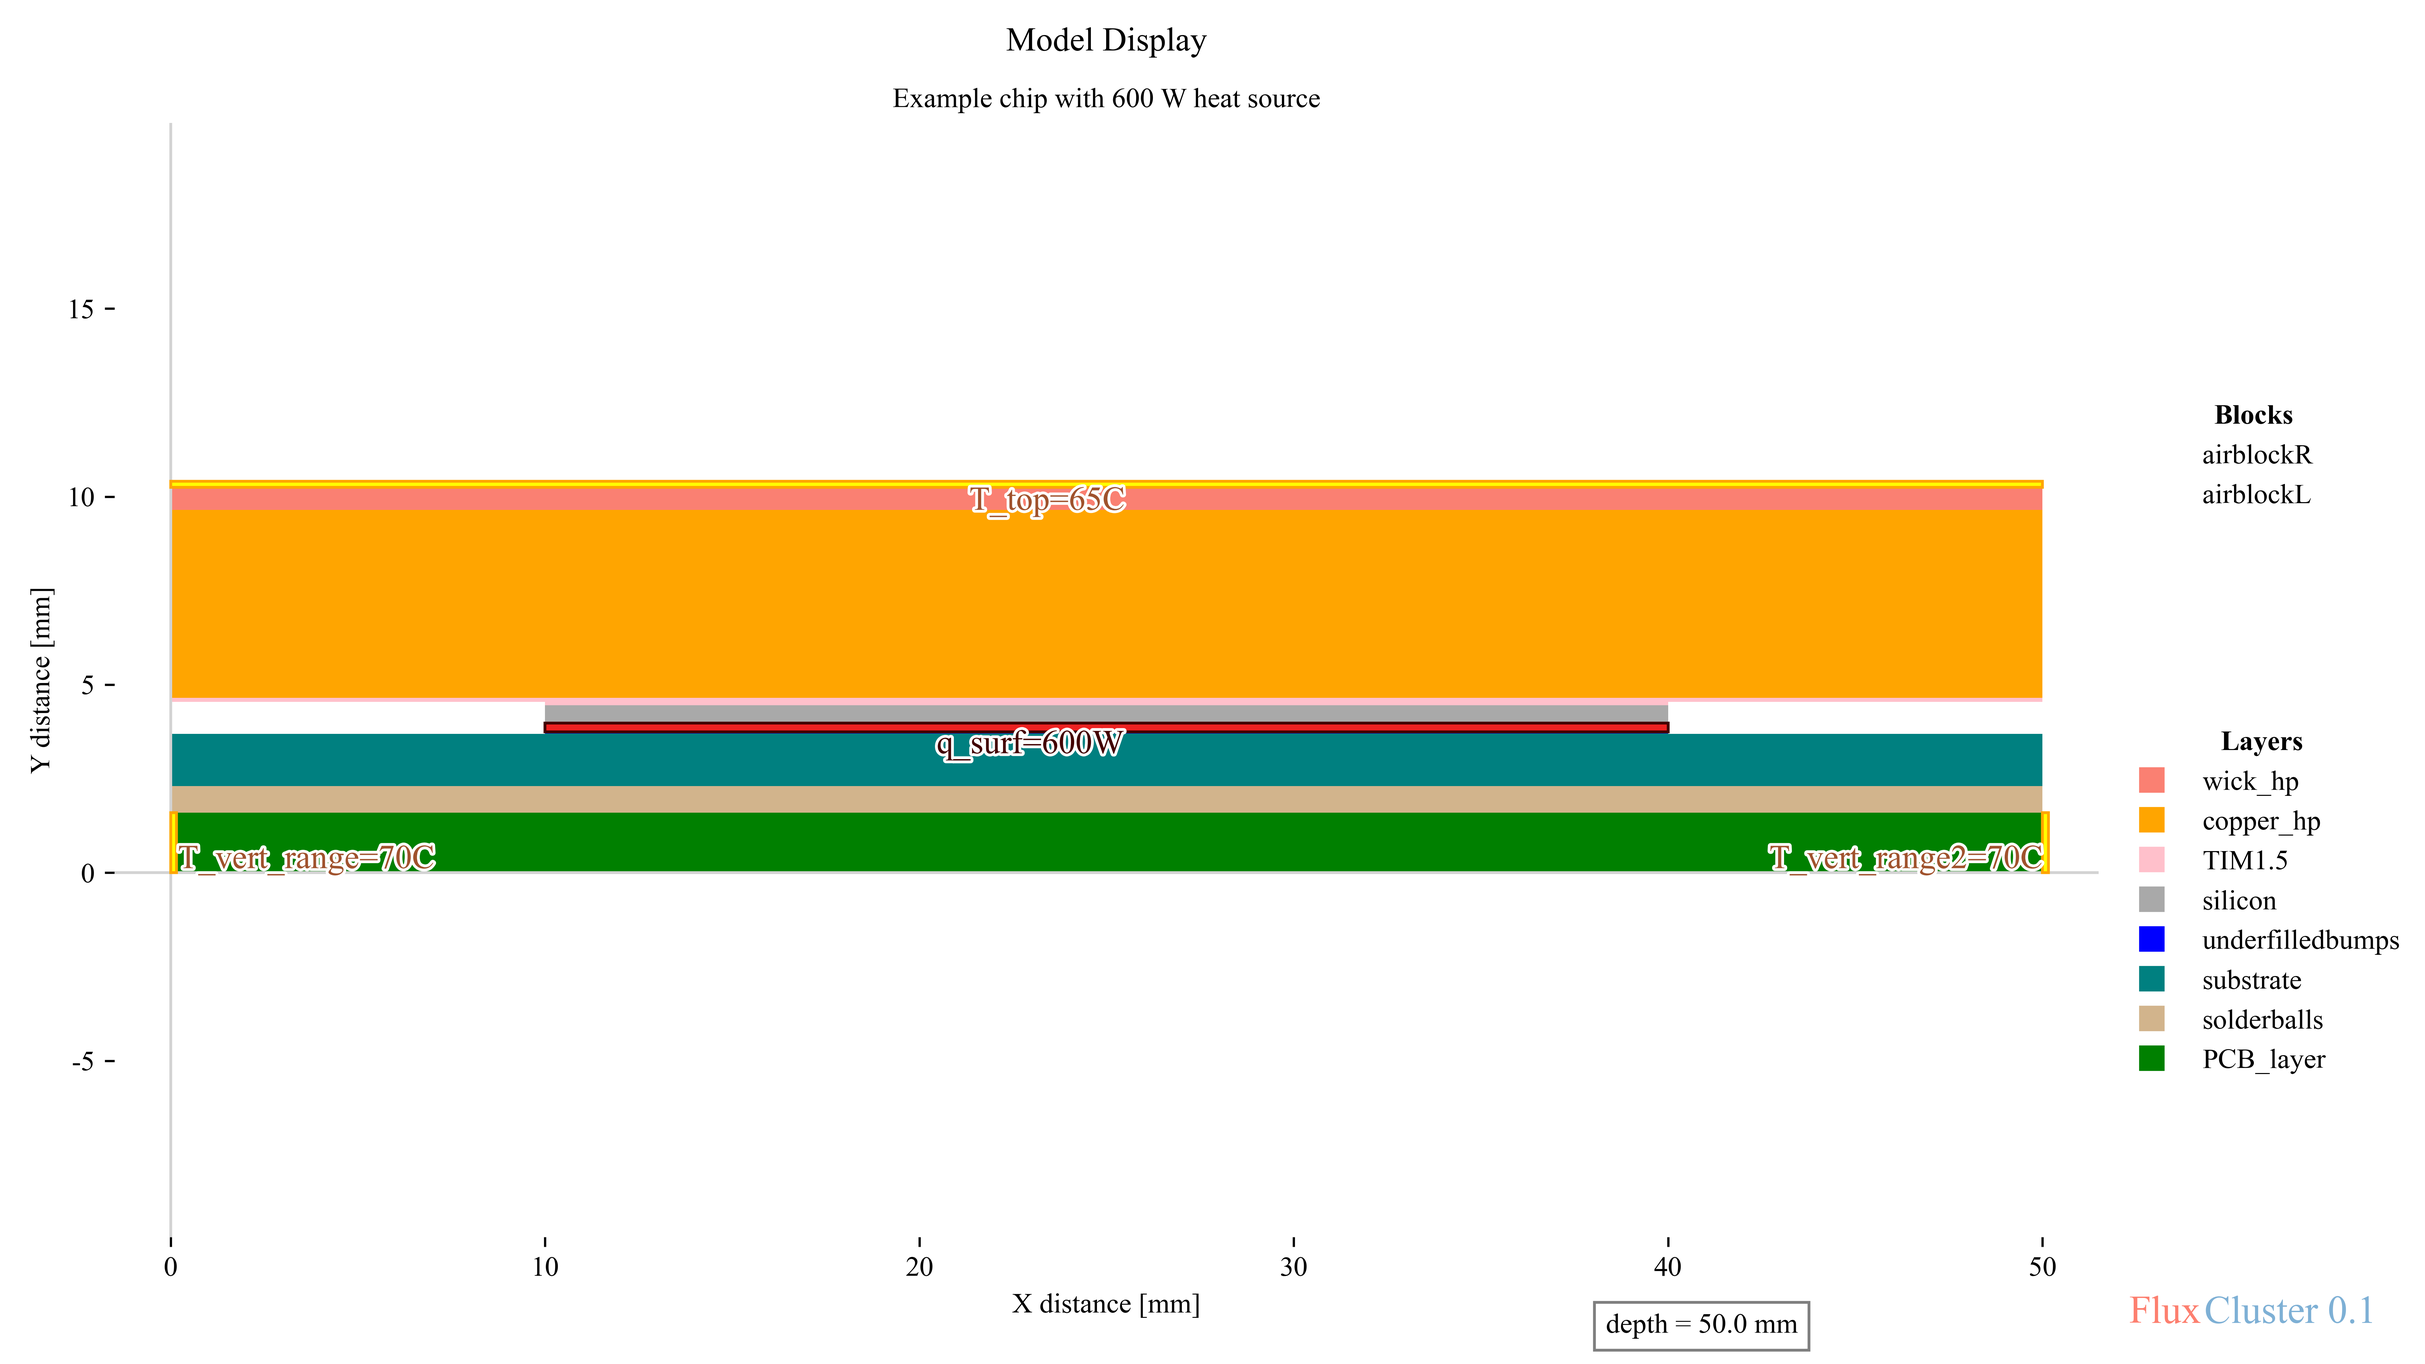
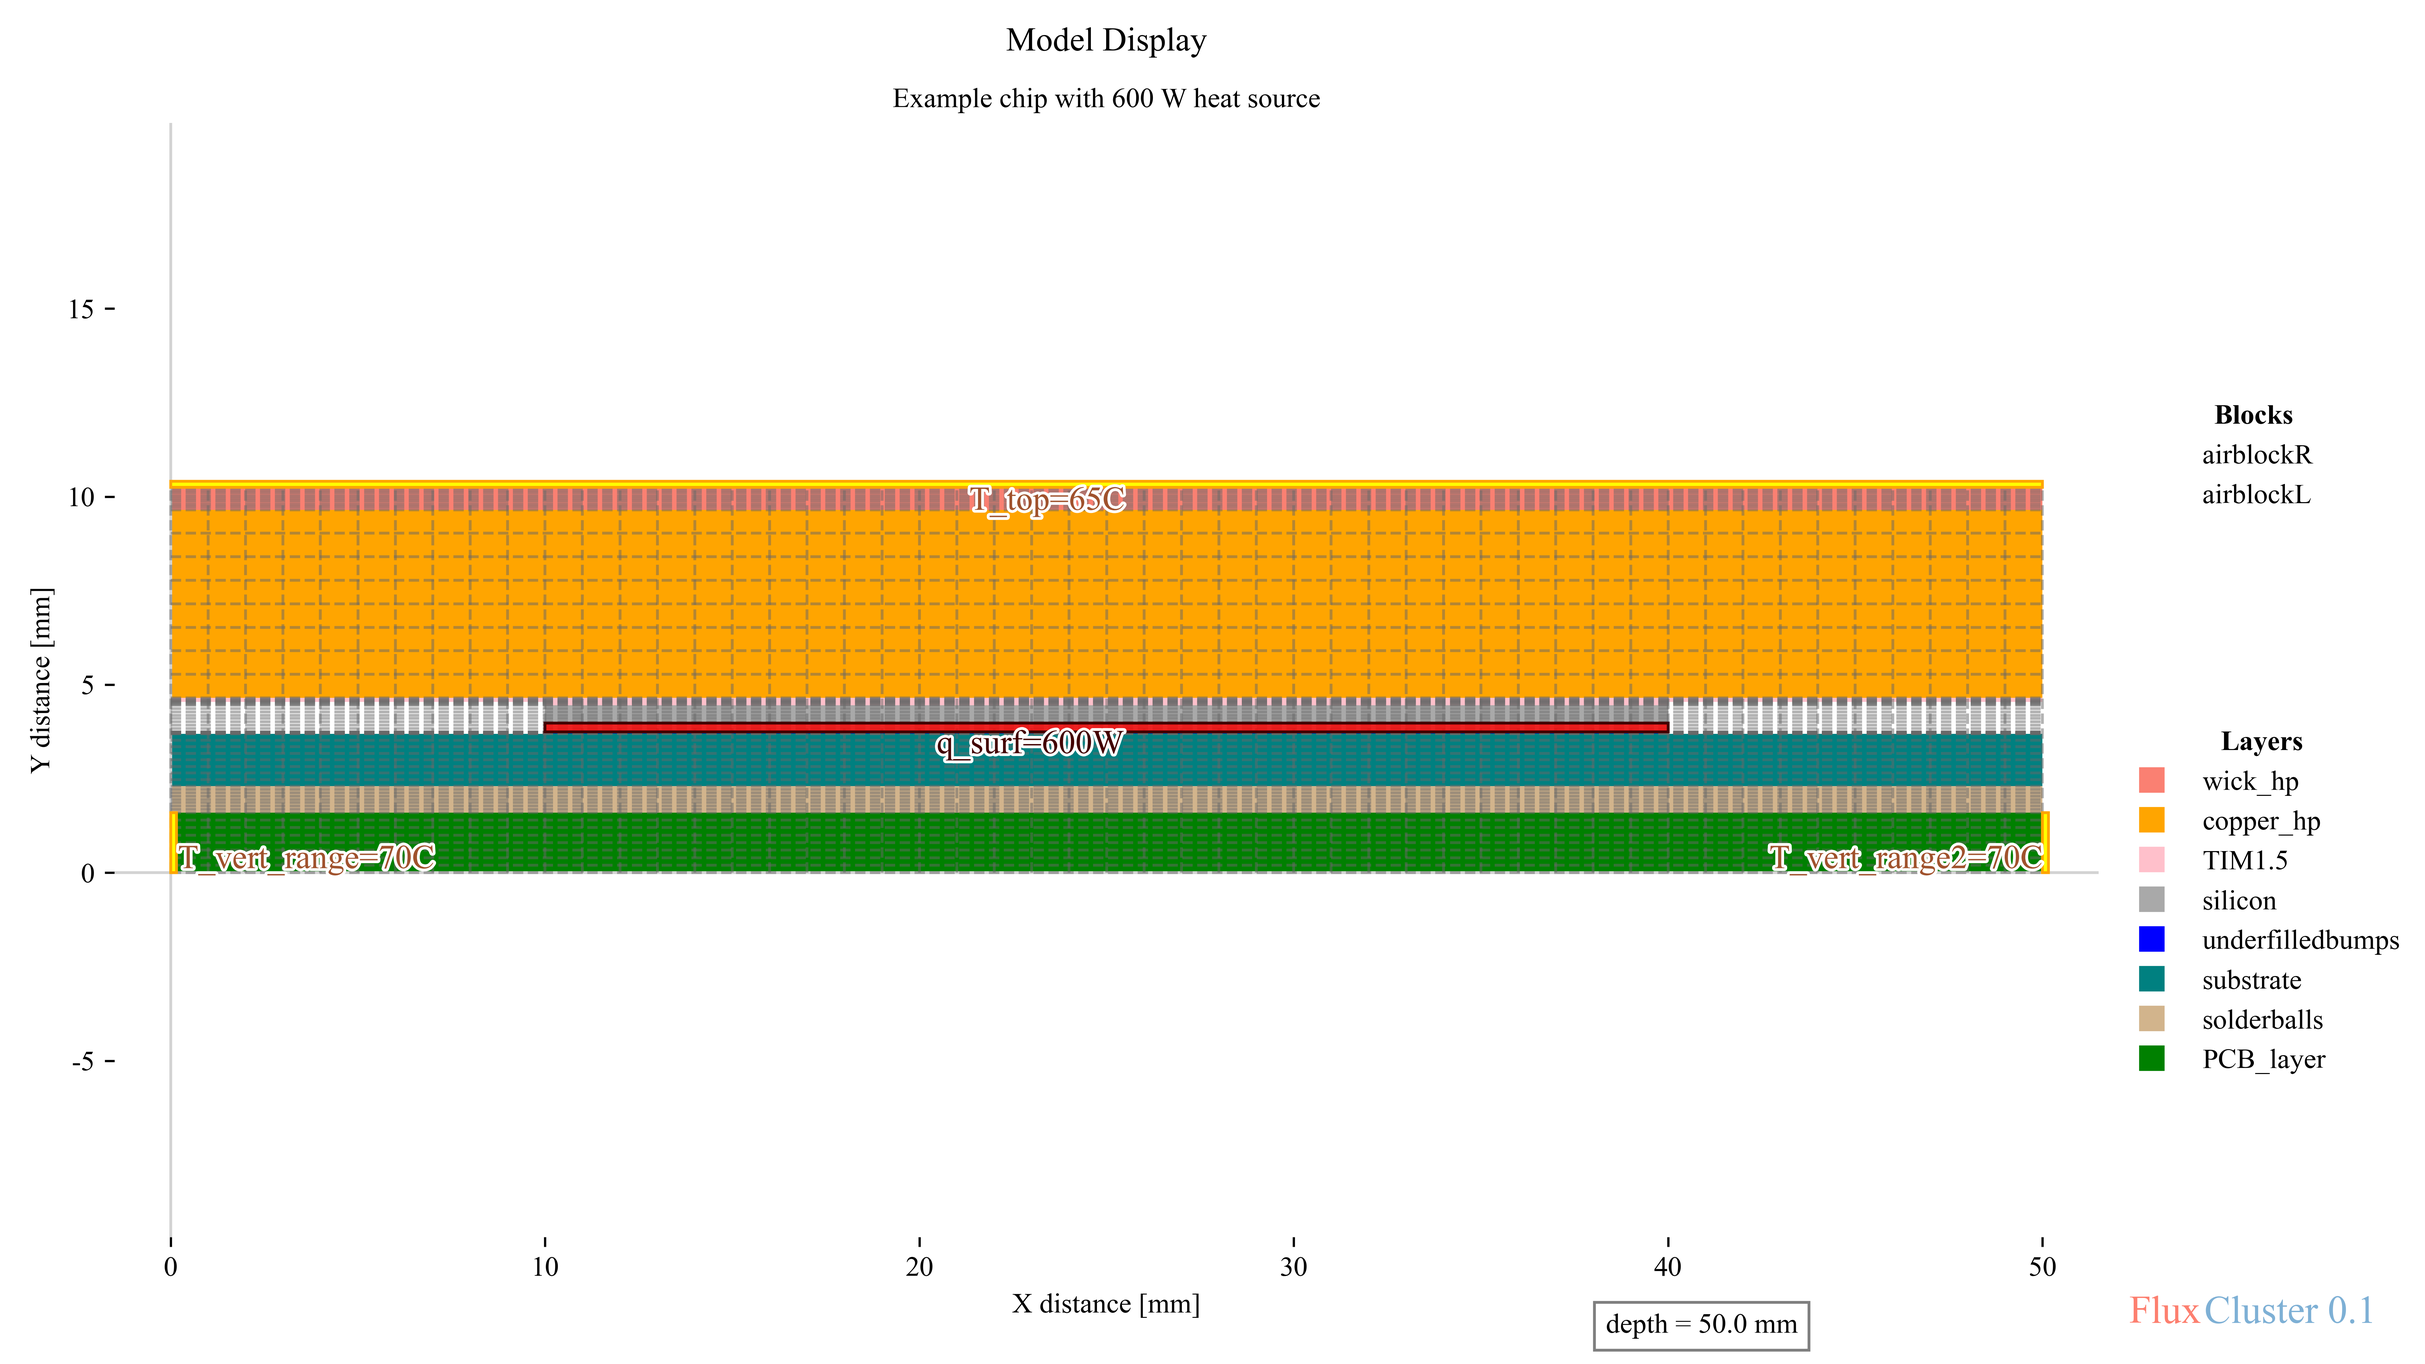
Added buggy implementation of heat flux paths to existing temperature plot, along with heat flux vectors. Doesn't quite align to expectations yet, with still contradictory results in the flux directions in the plot

Changed region(s): [[0.0625, 0.3422, 0.8438, 0.6533]]

diff --git a/FluxCluster.py b/FluxCluster.py
@@ -60,7 +60,7 @@ def setUserInput():
     plotsetg_dict = {
         'should_units_be_mm' : 1,
         'decml_plcs' : 0,
-        'shouldplotgrid' : 0,
+        'shouldplotgrid' : 1,
         'shouldplotnodes' : 0,
         'shouldadjusttext' : 1,
         'txtnudge' : 0.346, # 0-1 value. in place of np.random.random() use this so its same each time
@@ -2069,26 +2069,28 @@ def unpack_solution():
     Outputs T_full, qx, qy for each node
     """
     
-def calc_fluxlines_and_vecs():
+def calc_fluxlines_and_vecs(xpos, ypos):
+    # xvec = np.linspace(min(x_positions), max(x_positions), M)
+    # yvec = np.linspace(max(y_positions), min(y_positions), N)
+    x_grid, y_grid = np.meshgrid(xpos, ypos)
     
-    
-    # Example Grid
-    N, M = 200, 100 
-    x_st = np.linspace(0, 1, N)
-    y_st = np.linspace(0, 0.9, M)
-    x_grid, y_grid = np.meshgrid(x_st, y_st)
-    xpos = x_grid[0,:]
-    ypos = y_grid[:,0]
-    T = -np.sin(np.pi * x_grid) * np.sin(np.pi * y_grid) # Example temperature data
+    # xpos = x_grid[0,:]
+    # ypos = y_grid[:,0]
+    # T = -np.sin(np.pi * x_grid) * np.sin(np.pi * y_grid) # Example temperature data
+    T = np.array(Temperature3.reshape(N, M)) # Reshape Temperature3 array to match the grid shape
 
-    def closesttwo(targ_pt, list_vals):
-        """ Takes target value, and list of values, and finds closest two indices"""
+    def closesttwo(targ_pt, list_vals, ascending):
+        """ Takes target value, and a sorted list of values, and finds closest two indices"""
         compared_val = list_vals>targ_pt
         if np.any(compared_val):
             if np.all(compared_val):
                 idx_low_val = 0 # if target less than all, set as 0th index
+            elif ascending:
+                idx_low_val = np.argmax(compared_val)-1 # nominally take prev element before one higher than target, \
+                    # in argmax first occurance is taken hence why useful and efficient here
             else:
-                idx_low_val = np.argmax(compared_val)-1 # nominally take prev element before one higher than target
+                idx_low_val = np.argmin(compared_val)-1 # nominally take prev element before one higher than target, \
+                    # in argmin first occurance is taken hence why useful and efficient here
         else:
             idx_low_val = len(list_vals)-2 # if target greater or equal than all, set as 2nd last index
         idx_high_val = idx_low_val+1
@@ -2111,43 +2113,43 @@ def calc_fluxlines_and_vecs():
         y_lim = (min(ylist), max(ylist))
         pt_x = float(pt_x_init)
         pt_y = float(pt_y_init)
-        point_list_x = []
-        point_list_y = []
+        stream_pts_x = []
+        stream_pts_y = []
         while True: # Generate points for forwards spacial stepping, stop when reach bounds or too many iters
-            point_list_x.append(pt_x)
-            point_list_y.append(pt_y)
-            [idx_low_x, idx_high_x] = closesttwo(pt_x, xlist) #gets indices on selected trace points
-            [idx_low_y, idx_high_y] = closesttwo(pt_y, ylist) #gets indices on selected trace points
-            print(f'{idx_low_x=}') # for debug
-            print(f'{idx_high_x=}') # for debug
-            print(f'{idx_low_y=}') # for debug
-            print(f'{idx_high_y=}') # for debug
+            stream_pts_x.append(pt_x)
+            stream_pts_y.append(pt_y)
+            [idx_low_x, idx_high_x] = closesttwo(pt_x, xlist, 1) #gets indices on selected trace points
+            [idx_low_y, idx_high_y] = closesttwo(pt_y, ylist, 0) #gets indices on selected trace points
+            # print(f'{idx_low_x=}') # for debug
+            # print(f'{idx_high_x=}') # for debug
+            # print(f'{idx_low_y=}') # for debug
+            # print(f'{idx_high_y=}') # for debug
             fieldx_targ = bilin_interp_4p(pt_x, pt_y, [xlist[idx_low_x], xlist[idx_high_x]], [ylist[idx_low_y], ylist[idx_high_y]],\
                                        [fieldx[idx_low_y, idx_high_x], fieldx[idx_high_y,idx_high_x], \
                                         fieldx[idx_low_y,idx_low_x], fieldx[idx_high_y,idx_low_x]])
             fieldy_targ = bilin_interp_4p(pt_x, pt_y, [xlist[idx_low_x], xlist[idx_high_x]], [ylist[idx_low_y], ylist[idx_high_y]],\
                                        [fieldy[idx_low_y, idx_high_x], fieldy[idx_high_y,idx_high_x], \
                                         fieldy[idx_low_y,idx_low_x], fieldy[idx_high_y,idx_low_x]])
-            print(f'{fieldx_targ=}') # for debug
-            print(f'{fieldy_targ=}') # for debug
+            # print(f'{fieldx_targ=}') # for debug
+            # print(f'{fieldy_targ=}') # for debug
             magnitude = np.sqrt(fieldx_targ ** 2 + fieldy_targ ** 2)
             ux = fieldx_targ/magnitude # x component of unit vector
             uy = fieldy_targ/magnitude # y component of unit vector
             pt_x = float(pt_x + step*ux[0])
             pt_y = float(pt_y + step*uy[0])
-            if len(point_list_x) > 5000: #TODO set as user param
+            if len(stream_pts_x) > 5000: #TODO set as user param
                 break
             if pt_x > x_lim[1] or pt_x < x_lim[0] or pt_y > y_lim[1] or pt_y < y_lim[0]:
                 break
         pt_x = float(pt_x_init)
         pt_y = float(pt_y_init)
-        point_list_x_backw = []
-        point_list_y_backw = []
+        stream_pts_x_backw = []
+        stream_pts_y_backw = []
         while True: # Generate points for backwards spacial stepping, stop when reach bounds or too many iters
-            point_list_x_backw.append(pt_x)
-            point_list_y_backw.append(pt_y)
-            [idx_low_x, idx_high_x] = closesttwo(pt_x, xlist)
-            [idx_low_y, idx_high_y] = closesttwo(pt_y, ylist)
+            stream_pts_x_backw.append(pt_x)
+            stream_pts_y_backw.append(pt_y)
+            [idx_low_x, idx_high_x] = closesttwo(pt_x, xlist,1)
+            [idx_low_y, idx_high_y] = closesttwo(pt_y, ylist,0)
             # print(f'{idx_low_x=}') # for debug
             # print(f'{idx_high_x=}') # for debug
             # print(f'{idx_low_y=}') # for debug
@@ -2165,50 +2167,53 @@ def calc_fluxlines_and_vecs():
             uy = fieldy_targ/magnitude # y component of unit vector
             pt_x = float(pt_x - step*ux[0])
             pt_y = float(pt_y - step*uy[0])
-            if len(point_list_x_backw) > 5000: #TODO set as user param
+            if len(stream_pts_x_backw) > 5000: #TODO set as user param
                 break
             if pt_x > x_lim[1] or pt_x < x_lim[0] or pt_y > y_lim[1] or pt_y < y_lim[0]:
                 break
-        return [point_list_x, point_list_y, point_list_x_backw, point_list_y_backw]
+        return [stream_pts_x, stream_pts_y, stream_pts_x_backw, stream_pts_y_backw]
 
     def calcfluxvectors(field2d, x_grid, y_grid, xpos, ypos, num_x_samples, num_y_samples, pt_x=0.75, pt_y=1.2, step=0.001):
         # Compute the gradients of the temperature field
         dTdy, dTdx = np.gradient(field2d, y_grid[1, 0] - y_grid[0, 0], x_grid[0, 1] - x_grid[0, 0])
-        qx = dTdx # Compute the heat flux vectors (assuming k = 1 for simplicity)
-        qy = dTdy  #TODO add lookup for k at any sample point
-        [point_list_x, point_list_y, point_list_x_backw, point_list_y_backw] = eulerstream(qx, qy, xpos, ypos, pt_x, pt_y, step)
-        # Resample Grid
+        qx_dir = -dTdx # Compute the heat flux vectors (assuming k = 1 for simplicity)
+        qy_dir = -dTdy  #TODO add lookup for k at any sample point if want to scale arrow sizes
+        [stream_pts_x, stream_pts_y, stream_pts_x_backw, stream_pts_y_backw] = eulerstream(qx_dir, qy_dir, xpos, ypos, pt_x, pt_y, step) # TODO make separate function for vectors and for stream
+        # Resample Grid for flux vectors
         x_resmp = np.linspace(xpos.min(), xpos.max(), num_x_samples)
         y_resmp = np.linspace(ypos.min(), ypos.max(), num_y_samples)
         x_grid_resmp, y_grid_resmp = np.meshgrid(x_resmp, y_resmp)
         # use RegularGridInterpolator instead of interp2d due to deprecation
         # Note needs to be y, then x. Also note x and y in brackets. ASK ME HOW I KNOW >:(
-        interpfunc_x = RegularGridInterpolator((ypos, xpos), qx, method='linear', bounds_error=False) 
-        interpfunc_y = RegularGridInterpolator((ypos, xpos), qy, method='linear', bounds_error=False) 
-        qx_resmp = compressfield(interpfunc_x((y_grid_resmp, x_grid_resmp)))
-        qy_resmp = compressfield(interpfunc_y((y_grid_resmp, x_grid_resmp)))
-        return x_grid_resmp, y_grid_resmp, qx_resmp, qy_resmp, point_list_x, point_list_y, point_list_x_backw, point_list_y_backw
+        interpfunc_qx = RegularGridInterpolator((ypos, xpos), qx_dir, method='linear', bounds_error=False) 
+        interpfunc_qy = RegularGridInterpolator((ypos, xpos), qy_dir, method='linear', bounds_error=False) 
+        qx_resmp = compressfield(interpfunc_qx((y_grid_resmp, x_grid_resmp)))
+        qy_resmp = compressfield(interpfunc_qy((y_grid_resmp, x_grid_resmp)))
+        return x_grid_resmp, y_grid_resmp, qx_resmp, qy_resmp, stream_pts_x, stream_pts_y, stream_pts_x_backw, stream_pts_y_backw
 
-    x_grid_resmp, y_grid_resmp, qx_resmp, qy_resmp, point_list_x, point_list_y, point_list_x_backw, point_list_y_backw = \
-        calcfluxvectors(T, x_grid, y_grid, xpos, ypos, 16, 21, pt_x=0.25, pt_y=0.4, step=0.001)
-    fig, ax = plt.subplots(1,1)
-    # Plot the temperature field
-    plt.contourf(x_grid, y_grid, T, 20, cmap='hot')
-    plt.colorbar(label='Temperature')
-    # Plot the heat flux vectors
-    plt.quiver(x_grid_resmp, y_grid_resmp, qx_resmp, qy_resmp, linewidths=0.5, edgecolors='black', headlength=5, minlength=0, minshaft=0)
-    plt.plot(point_list_x, point_list_y, 'g')
-    plt.plot(point_list_x_backw, point_list_y_backw, 'b')
-    ax.axis('equal')
-    plt.xlim([min(xpos), max(xpos)])
-    plt.ylim([min(ypos), max(ypos)])
-    plt.xlabel('x')
-    plt.ylabel('y')
-    plt.title('Heat Flux Vectors')
-    return
+    x_grid_resmp, y_grid_resmp, qx_resmp, qy_resmp, stream_pts_x, stream_pts_y, stream_pts_x_backw, stream_pts_y_backw = \
+        calcfluxvectors(T, x_grid, y_grid, xpos, ypos, 40, 16, pt_x=0.014, pt_y=0.005, step=0.0001) # TODO make this a setting for user
+    # Plot for Debugging
+    # fig, ax = plt.subplots(1,1)
+    # # Plot the temperature field
+    # plt.contourf(x_grid, y_grid, T, 400, cmap='hot')
+    # plt.colorbar(label='Temperature')
+    # # Plot the heat flux vectors
+    # # plt.quiver(x_grid_resmp, y_grid_resmp, qx_resmp, qy_resmp, linewidths=0.3, edgecolors='black', headlength=5, minlength=0, minshaft=0)
+    # # plt.quiver(x_grid_resmp, y_grid_resmp, qx_resmp, qy_resmp, linewidths=0.8, edgecolors='k') #need to set edgecolors because linewidths wont work otherwise due to bug
+    # plt.quiver(x_grid_resmp, y_grid_resmp, qx_resmp, qy_resmp, width=0.002)
+    # plt.plot(stream_pts_x, stream_pts_y, 'g')
+    # plt.plot(stream_pts_x_backw, stream_pts_y_backw, 'b')
+    # ax.axis('equal')
+    # plt.xlim([min(xpos), max(xpos)])
+    # plt.ylim([min(ypos), max(ypos)])
+    # plt.xlabel('x')
+    # plt.ylabel('y')
+    # plt.title('Heat Flux Vectors')
+    return x_grid_resmp, y_grid_resmp, qx_resmp, qy_resmp, stream_pts_x, stream_pts_y, stream_pts_x_backw, stream_pts_y_backw
 
 start_time = time.perf_counter()
-calc_fluxlines_and_vecs()
+x_grid_resmp, y_grid_resmp, qx_resmp, qy_resmp, stream_pts_x, stream_pts_y, stream_pts_x_backw, stream_pts_y_backw = calc_fluxlines_and_vecs(x_positions, y_positions)
 end_time = time.perf_counter()
 print(f"Time taken fluxlines: {end_time - start_time:.12f} seconds")
     
@@ -2612,6 +2617,13 @@ def plot_temperature_standalone(Temperature3, nodal_posn_x, nodal_posn_y, M, N, 
         CS = plt.contour(nodal_posn_x.reshape(N, M), nodal_posn_y.reshape(N, M), Temperature3_grid,16)
         plt.clabel(CS, inline=True, fontsize=8)
         plt.clabel(CS, inline=True, fontsize=8)
+        
+    # Show flux vectors
+    plt.quiver(x_grid_resmp, y_grid_resmp, qx_resmp, qy_resmp, width=0.002)
+    
+    # Show fluxlines
+    plt.plot(stream_pts_x, stream_pts_y, 'g')
+    plt.plot(stream_pts_x_backw, stream_pts_y_backw, 'b')
 
     # Show Max Temp Location
     if showmaxTlocn:
@@ -2635,43 +2647,7 @@ def plot_temperature_standalone(Temperature3, nodal_posn_x, nodal_posn_y, M, N, 
         #                           va='center', fontsize=12, color='black', zorder=9, path_effects=pe))
         
         
-        
-        
-        
-        
-        
-        
-        
-    # # TODO add Flux Field plot and Heat Flux Trace
-    # Flux Field Plot
-    # Compute the gradients of the temperature field
-    dTdy, dTdx = np.gradient(Temperature3_grid, y_positions, x_positions)
-    # Compute the heat flux vectors (assuming k = 1 for simplicity)
-    qx = -dTdx
-    qy = -dTdy
-    plt.quiver(nodal_posn_x_2Dshp, nodal_posn_y_2Dshp, qx, qy, scale=1000000, scale_units='xy', angles='xy', cmap='cool')
-    # plt.colorbar(label='Heat flux magnitude')
-    
-    # Heat Flux Trace
-    # https://andrewpeng.dev/writings/7-visualizing-vector-fields.html
-    # or https://www3.nd.edu/~apilking/Calculus2Resources/Lecture%2017/NotesL17.pdf
-    # NOTE not using streamplot because needs strictly increasing evenly spaced data
-    
-    
-    # HOW TO RESAMPLE VECTORS - MIGHT NEED TO GIVE THIS AS OPTION IF TOO MANY MESH POINTS
-        # fieldgrad = np.gradient(Temperature3_grid)
-        # nodal_Tgrad_x_2Dshp = fieldgrad[1]
-        # nodal_Tgrad_y_2Dshp = fieldgrad[0]
-        
-        # # # regularly spaced grid spanning the domain of x and y 
-        # x_resmp = np.linspace(x_positions.min(), x_positions.max(), x_positions.size)
-        # y_resmp = np.linspace(y_positions.min(), y_positions.max(), y_positions.size)
-        
-        # # # bicubic interpolation
-        # uC_resmp = interp2d(x_positions, y_positions, nodal_Tgrad_x_2Dshp)(x_resmp, y_resmp)
-        # vC_resmp = interp2d(x_positions, y_positions, nodal_Tgrad_y_2Dshp)(x_resmp, y_resmp)
-        
-        # plt.streamplot(x_resmp, y_resmp, uC_resmp, vC_resmp, density=1, broken_streamlines=True) # Needs strictly increasing, evenly spaced data
+
     
     
     
